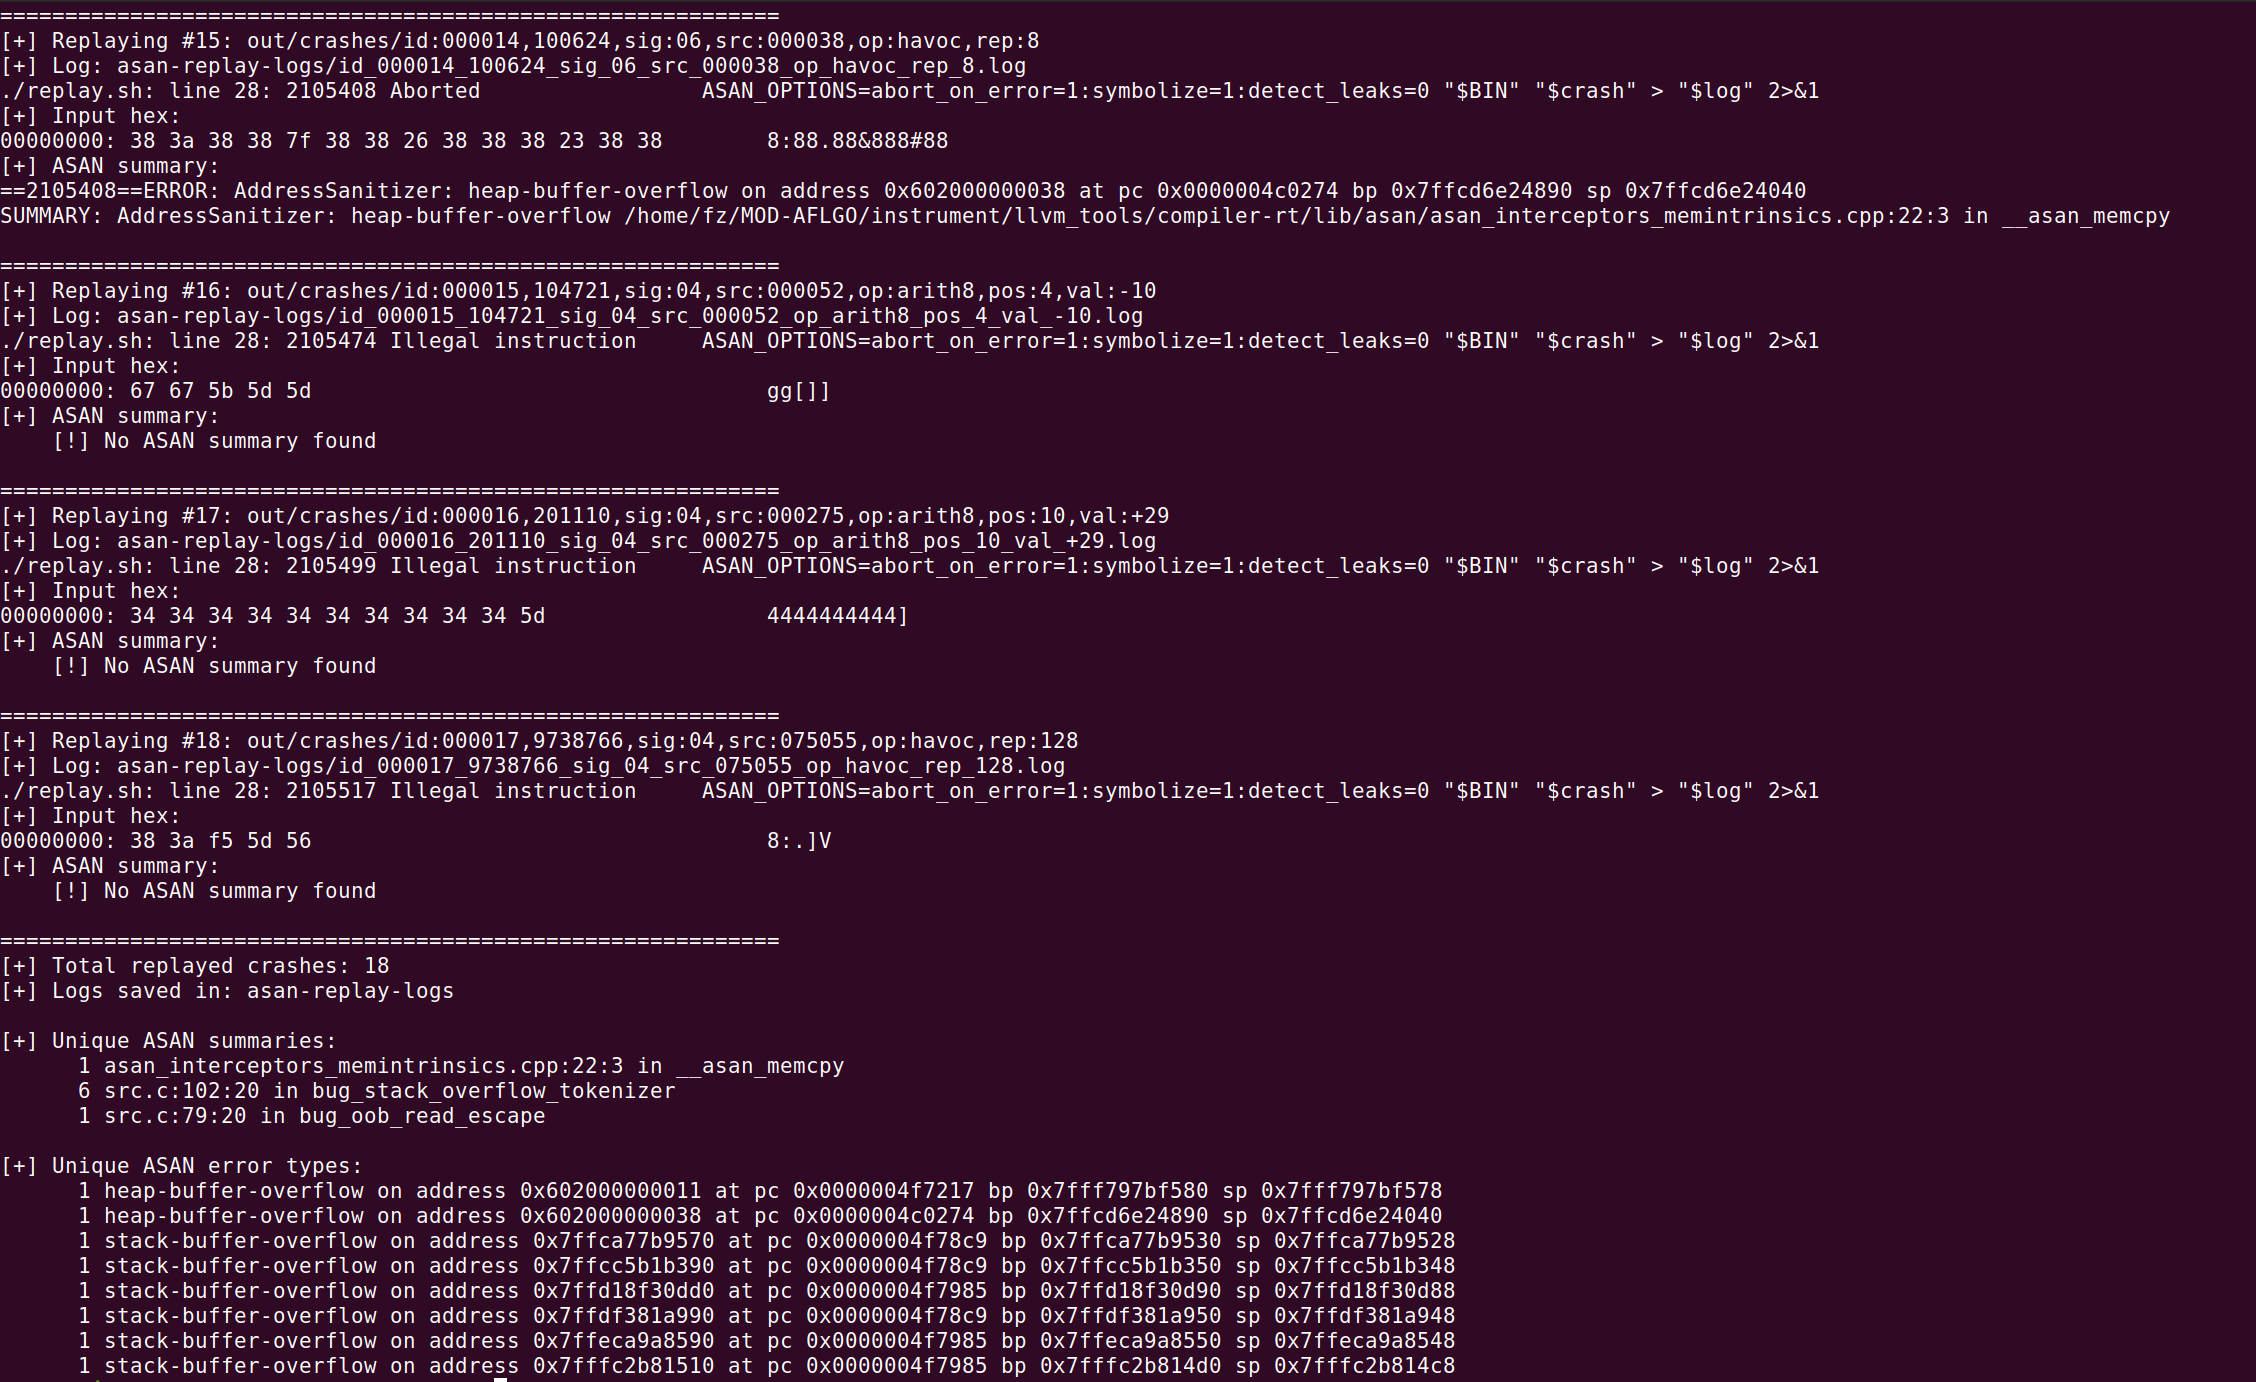
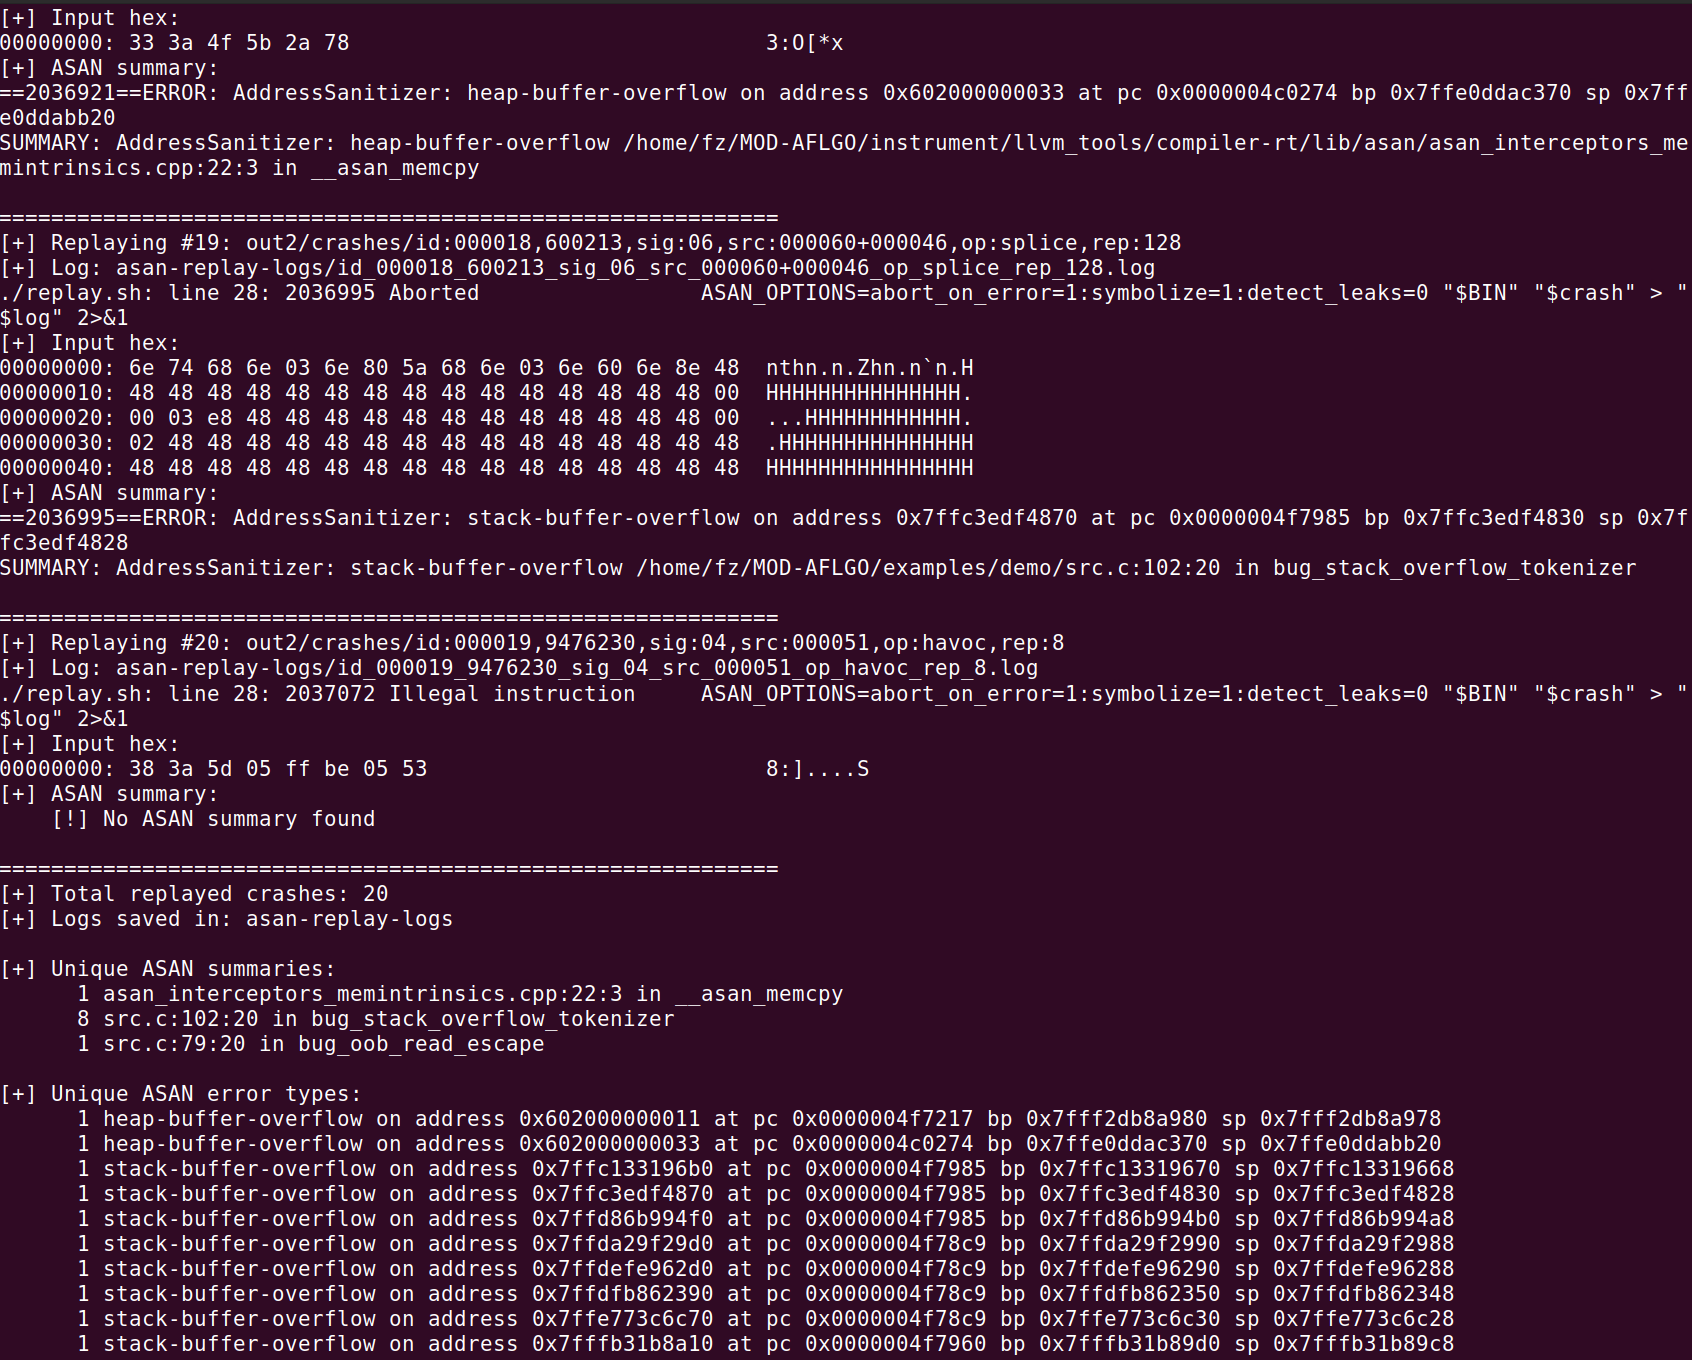
fix typo

diff --git a/content/aboutme/index.md b/content/aboutme/index.md
@@ -8,27 +8,32 @@ math:
   enable: true
 ---
 
-<span style="font-weight: 800; font-size: 28px; display: block; padding-bottom: 15px;">Duc Dat Dau (a.k.a cauchyfish)</span>
+<span style="font-weight: 800; font-size: 28px; display: block; padding-bottom: 15px;">Duc Dat Dau (a.k.a "cauchyfish")</span>
 
-A final-year Cybersecurity undergraduate at Thuyloi University (TLU). 
+A final-year Cybersecurity undergraduate at Thuyloi University. 
 
 CTF Competition (3+ yrs): National and international Capture The Flag tournaments, specializing in Reverse Engineering and Binary Exploitation
 
-My focus (1 yrs): Automated vulnerability discovery, researching and implementing fuzzing engines (AFL++, AFLGo, HyperGo)
+My focus (1 yrs): Automated vulnerability discovery, researching and implementing fuzzing engines (AFL, AFLGo)
 
-Research: Fuzzing, Reverse Engineering, Malware Analysis, and Game Theory Optimal (GTO) Poker
+Interests: 
+- Fuzzing
+- System Security
+- Binary Analysis
+- Reverse Engineering
+- Game Theory Optimal (GTO) Poker
 
 Academic & CTF Highlights:
-- **Ranked #1 (CPA: 4.00)** the Cybersecurity major at TLU
-- **Consolation Prize**, National Cybersecurity Student Contest Vietnam Final ('25)
-- **Finalist**, ASEAN Student Contest on Information Security ('24)
+- Ranked #1 (CPA: 4.00) the Cybersecurity major at TLU
+- Consolation Prize, National Cybersecurity Student Contest Vietnam Final ('25)
+- Finalist, ASEAN Student Contest on Information Security ('24)
 - Le Van Kiem Scholarship for Excellence student ('24)
-- **Bronze Medalist**, Vietnam National Mathematics Olympiad for Undergraduates ('23)
+- Bronze Medalist, Vietnam National Mathematics Olympiad for Undergraduates ('23)
 - Academic Scholarships (7/7 semesters)
 
 ---
 
-**Security Research**
+**PUBLICATION**
 
 [1] Research on the technique of File Structure Attack
 - ***Duc Dat Dau***, *Vo Ta Hoang*, *Pham Thanh Binh*

diff --git a/content/research/2025-heap_ctf_theory/index.md b/content/research/2025-heap_ctf_theory/index.md
@@ -1,5 +1,5 @@
 ---
-title: "Heap CTF Theory"
+title: "HEAP CTF THEORY"
 date: 2025-10-07
 draft: false
 tags: ["Pwnable"]
@@ -21,7 +21,7 @@ img {
 
 Nội dung bài viết sẽ không đi sâu vào nghiên cứu các cơ chế hoạt động của Heap. Thay vào đó là những nội dung khái quát, vừa đủ để người chơi có thể làm quen được với các dạng bài Heap Exploitation trong Capture The Flag. 
 
-## 0x1 Malloc Chunk
+## 0x01 Malloc Chunk
 
 Khi chương trình gọi hàm `malloc`/`calloc`, một vùng nhớ mới sẽ được tạo ra gọi là **heap chunk**. Cấu trúc của một chunk sẽ gồm 2 phần: **heap metadata** và **heap content**. 
 
@@ -42,7 +42,7 @@ Ví dụ: `malloc` 2 chunk với kích thước 0x20, tính thêm cả metadata 
 
 <img src="./imgs/1.png">
 
-## 0x2 Binning
+## 0x02 Binning
 
 Khi một heap chunk được `free`, nó sẽ được đẩy vào các bin tương ứng. Bin được định nghĩa là các vùng nhớ chứa các chunk được giải phóng, giúp chương trình thuận tiện cấp phát lại bộ nhớ mới khi có yêu cầu. 
 
@@ -248,7 +248,7 @@ Khi một chunk được yêu cầu `malloc`, nếu Tcache Bin và Fast Bin khô
     - Nếu liền kề với chunk #3 → gộp chunk và cùng đưa vào Large Bin.
     - Ngược lại → đưa vào Small Bin.
 
-## 0x3 Top Chunk
+## 0x03 Top Chunk
 
 Top chunk là vùng nhớ lớn cuối cùng của heap dùng để giữ các khối bộ nhớ chưa được phân bổ. Khi có một yêu cầu cấp phát bộ nhớ, trình quản lý heap sẽ tìm kiếm các khối bộ nhớ đủ rộng để cấp phát. Nếu không đủ lớn, top chunk sẽ cắt một phần của mình và trả về vùng nhớ mới.
 
@@ -272,5 +272,5 @@ Addr: 0x5555555592d0
 Size: 0x20d30 (with flag bits: 0x20d31)
 ```
 
-## 0x4 References
+## 0x04 References
 [1]. [Heap Exploitation Nightmare](https://guyinatuxedo.github.io/25-heap/index.html)

diff --git a/content/research/2025-uart/index.md b/content/research/2025-uart/index.md
@@ -1,5 +1,5 @@
 ---
-title: "UART protocol"
+title: "UART PROTOCOL"
 date: 2024-08-24
 draft: false
 tags: ["IOT"]